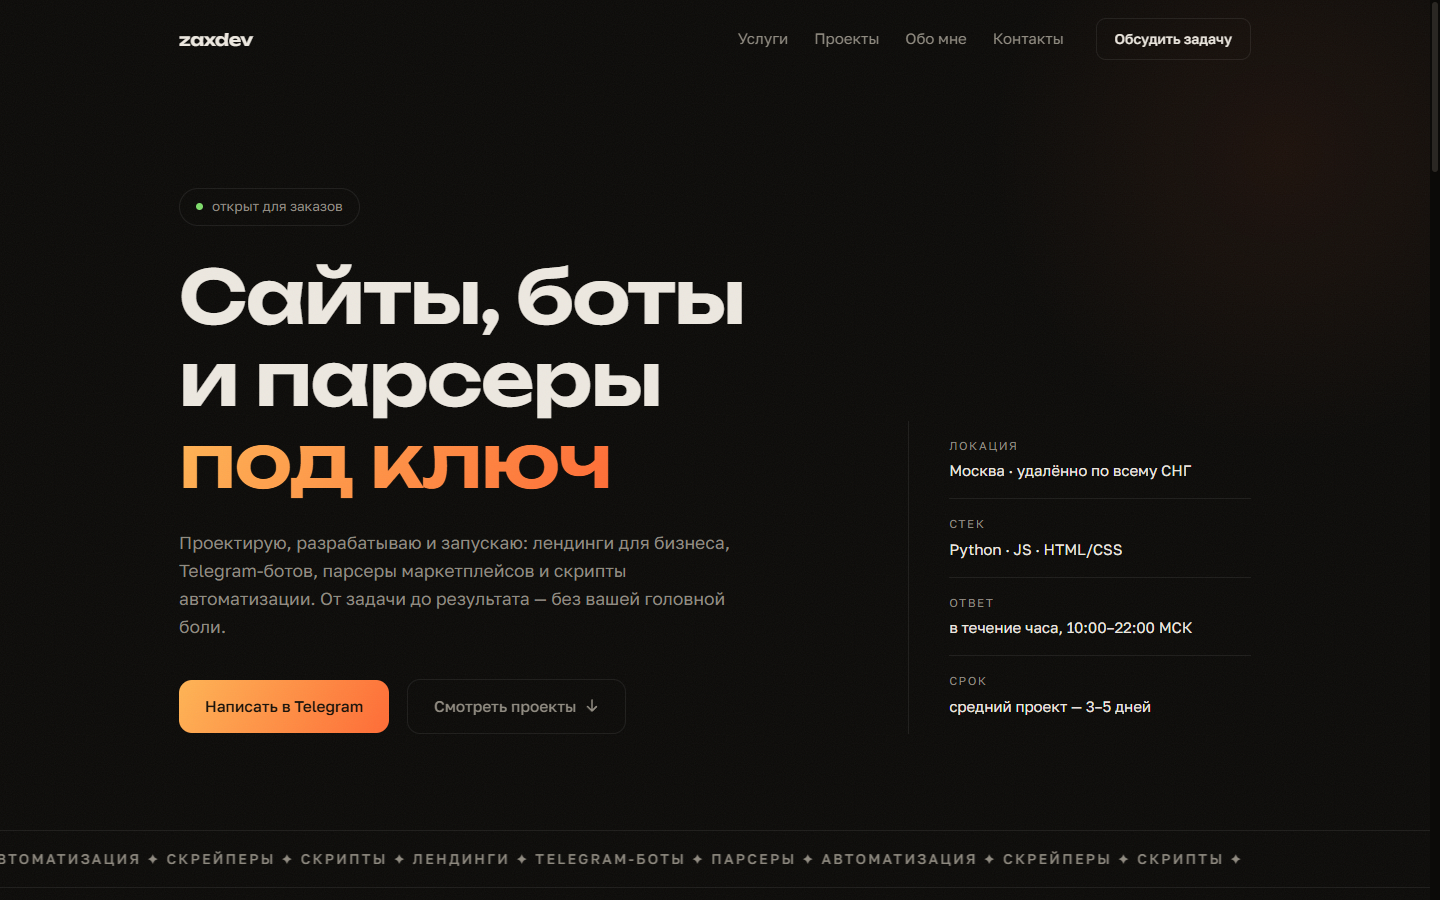
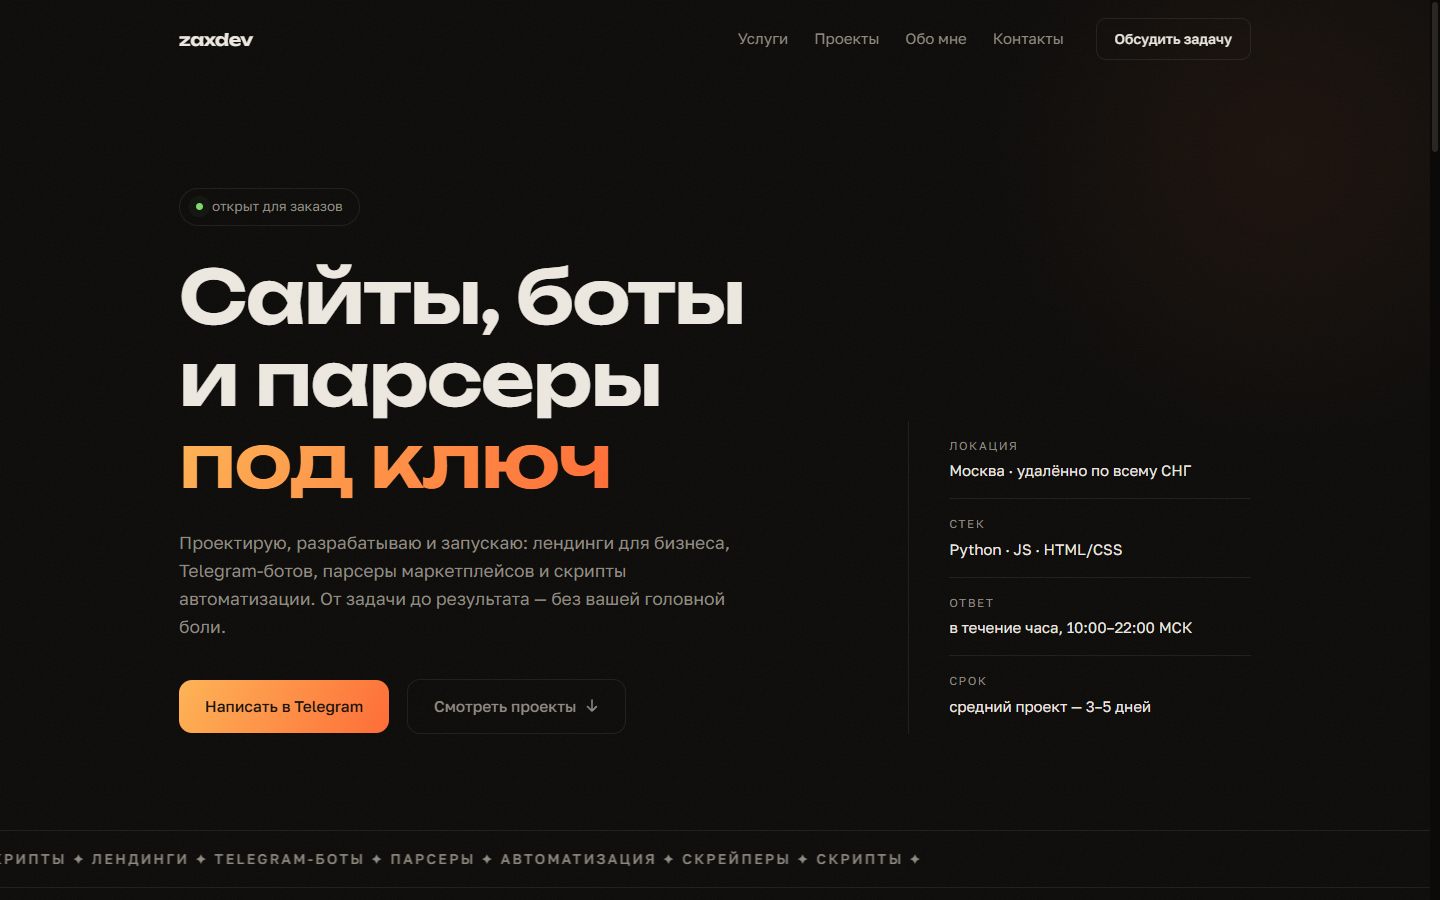
add northlight, shum, forma cases and compact grid with all projects

Changed region(s): [[0.0, 0.9333, 0.8438, 0.9644]]

diff --git a/index.html b/index.html
@@ -159,27 +159,79 @@
         <div class="project-row row-reverse reveal">
           <div class="project-info">
             <span class="project-idx">02</span>
-            <h3>wb-price-tracker</h3>
-            <p>Мониторинг цен Wildberries: отслеживание товаров, графики динамики, уведомления о снижении цены, выгрузка отчёта в Excel. Сейчас в работе.</p>
+            <h3>Northlight</h3>
+            <p>Лендинг SaaS-платформы продуктовой аналитики: bento-сетка фич, интерактивный демо-блок с табами, переключатель тарифов, waitlist-форма. Светлый минимализм, много воздуха.</p>
             <div class="project-tags">
-              <span>Python</span><span>requests</span><span>matplotlib</span>
+              <span>HTML</span><span>CSS</span><span>JS</span>
             </div>
-            <span class="project-status">в разработке</span>
+            <a class="project-link" href="https://hmsusbusas-png.github.io/northlight/" target="_blank" rel="noopener">Открыть сайт
+              <svg width="13" height="13" viewBox="0 0 13 13" fill="none" aria-hidden="true"><path d="M2 11 11 2M4.5 2H11v6.5" stroke="currentColor" stroke-width="1.6" stroke-linecap="round" stroke-linejoin="round"/></svg>
+            </a>
           </div>
-          <div class="project-visual visual-b"><span>&gt;_</span></div>
+          <div class="project-visual visual-b"><span>NL</span></div>
         </div>
 
         <div class="project-row reveal">
           <div class="project-info">
             <span class="project-idx">03</span>
-            <h3>tg-shop-bot</h3>
-            <p>Магазин внутри Telegram: каталог товаров, корзина, оформление заказа, уведомления админу о продажах. Тоже в работе — код появится здесь.</p>
+            <h3>ШУМ — digital-агентство</h3>
+            <p>Сайт агентства в нео-брутализме: контурная типографика, жёсткие тени, marquee-строки, аккордеон услуг с ценами и форма заявки с живой валидацией.</p>
             <div class="project-tags">
-              <span>Python</span><span>aiogram 3</span><span>SQLite</span>
+              <span>HTML</span><span>CSS</span><span>JS</span>
             </div>
-            <span class="project-status">в разработке</span>
+            <a class="project-link" href="https://hmsusbusas-png.github.io/shum-agency/" target="_blank" rel="noopener">Открыть сайт
+              <svg width="13" height="13" viewBox="0 0 13 13" fill="none" aria-hidden="true"><path d="M2 11 11 2M4.5 2H11v6.5" stroke="currentColor" stroke-width="1.6" stroke-linecap="round" stroke-linejoin="round"/></svg>
+            </a>
           </div>
-          <div class="project-visual visual-c"><span>tg</span></div>
+          <div class="project-visual visual-c"><span>ШУМ</span></div>
+        </div>
+
+        <div class="project-row row-reverse reveal">
+          <div class="project-info">
+            <span class="project-idx">04</span>
+            <h3>ФОРМА — фитнес-клуб</h3>
+            <p>Сайт сети фитнес-клубов: расписание занятий по дням с табами, тарифы, счётчики и запись на пробную тренировку. Тёмная тема с неоновыми акцентами.</p>
+            <div class="project-tags">
+              <span>HTML</span><span>CSS</span><span>JS</span>
+            </div>
+            <a class="project-link" href="https://hmsusbusas-png.github.io/forma-fitness/" target="_blank" rel="noopener">Открыть сайт
+              <svg width="13" height="13" viewBox="0 0 13 13" fill="none" aria-hidden="true"><path d="M2 11 11 2M4.5 2H11v6.5" stroke="currentColor" stroke-width="1.6" stroke-linecap="round" stroke-linejoin="round"/></svg>
+            </a>
+          </div>
+          <div class="project-visual visual-a"><span>ФОРМА</span></div>
+        </div>
+
+        <div class="mini-grid reveal">
+          <a class="mini-card" href="https://hmsusbusas-png.github.io/marta-berg/" target="_blank" rel="noopener">
+            <span class="mini-name">Marta Berg</span>
+            <span class="mini-desc">Портфолио фотографа: masonry-галерея с лайтбоксом, услуги и запись на съёмку</span>
+            <span class="mini-tag">HTML / CSS / JS</span>
+          </a>
+          <a class="mini-card" href="https://hmsusbusas-png.github.io/metrics-dashboard/" target="_blank" rel="noopener">
+            <span class="mini-name">Sales Dashboard</span>
+            <span class="mini-desc">Дашборд продаж: графики Chart.js, фильтры периодов, тёмная и светлая тема, экспорт CSV</span>
+            <span class="mini-tag">JS + Chart.js</span>
+          </a>
+          <a class="mini-card" href="https://github.com/hmsusbusas-png/wb-price-tracker" target="_blank" rel="noopener">
+            <span class="mini-name">wb-price-tracker</span>
+            <span class="mini-desc">Мониторинг цен Wildberries: поиск, графики динамики, выгрузка в Excel</span>
+            <span class="mini-tag">Python</span>
+          </a>
+          <a class="mini-card" href="https://github.com/hmsusbusas-png/tg-shop-bot" target="_blank" rel="noopener">
+            <span class="mini-name">tg-shop-bot</span>
+            <span class="mini-desc">Магазин настольных игр в Telegram: каталог, корзина, оформление заказа в SQLite</span>
+            <span class="mini-tag">Python + aiogram 3</span>
+          </a>
+          <a class="mini-card" href="https://github.com/hmsusbusas-png/price-watch" target="_blank" rel="noopener">
+            <span class="mini-name">price-watch</span>
+            <span class="mini-desc">Слежение за ценами с алертами в Telegram: Wildberries и любой сайт по селектору</span>
+            <span class="mini-tag">Python</span>
+          </a>
+          <a class="mini-card" href="https://github.com/hmsusbusas-png/file-tidy" target="_blank" rel="noopener">
+            <span class="mini-name">file-tidy</span>
+            <span class="mini-desc">CLI-органайзер файлов по типам и датам: dry-run по умолчанию, откат через undo</span>
+            <span class="mini-tag">Python</span>
+          </a>
         </div>
       </div>
     </section>

diff --git a/css/style.css b/css/style.css
@@ -876,3 +876,49 @@ section {
     font-size: clamp(2.6rem, 14.5vw, 4rem);
   }
 }
+
+/* остальные работы — компактный грид */
+.mini-grid {
+  display: grid;
+  grid-template-columns: repeat(3, 1fr);
+  gap: 14px;
+  margin-top: 56px;
+}
+
+.mini-card {
+  display: flex;
+  flex-direction: column;
+  gap: 10px;
+  padding: 22px 20px;
+  border: 1px solid var(--border);
+  border-radius: 14px;
+  background: var(--surface);
+  color: inherit;
+  text-decoration: none;
+  transition: border-color .25s ease, transform .25s ease, background .25s ease;
+}
+
+.mini-card:hover {
+  border-color: rgba(255, 255, 255, .22);
+  background: rgba(255, 255, 255, .06);
+  transform: translateY(-3px);
+}
+
+.mini-name { font-weight: 600; font-size: 1.02rem; }
+
+.mini-desc {
+  font-size: .88rem;
+  color: var(--muted);
+  line-height: 1.5;
+  flex: 1;
+}
+
+.mini-tag {
+  font-size: .74rem;
+  color: var(--muted);
+  letter-spacing: .05em;
+  text-transform: uppercase;
+}
+
+@media (max-width: 860px) { .mini-grid { grid-template-columns: 1fr 1fr; } }
+@media (max-width: 560px) { .mini-grid { grid-template-columns: 1fr; } }
